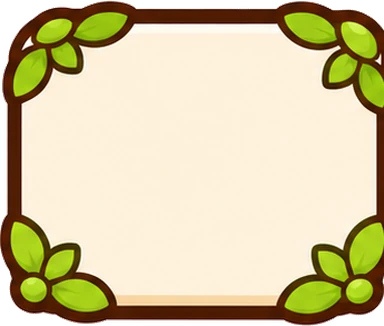
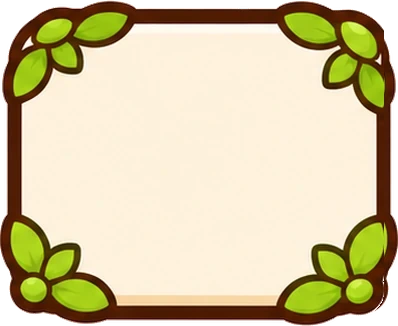
Frame art: rebuild the clipped left end of the capsule and the thin right border of the panel
Claude-Session: https://claude.ai/code/session_011jC4ZDqrEaYqEhudpbFCaM

diff --git a/docs/BIBLE.md b/docs/BIBLE.md
@@ -341,7 +341,7 @@
 | D-054 | 11-23 | 바구니보다 낮은 아이템 쓸 곳: 정리 부탁(새 부탁 15%, 원격 cleanup_chance, 한 번에 하나, 별 1개지만 하루 별 부탁 한도 · 단계 보상에 세지 않음, 그 아이템이 없어지면 거둠; 25%는 초반 구역이 15% 빨라져 15%로, 시뮬). 모두 합치기 · 모두 팔기는 넣지 않는다 (머지를 대신해 주고, 판은 늘 차므로 실수로 다 팔 위험 — 사용자 결정). 판이 꽉 막혔을 때(빈 칸 · 합칠 쌍 없음, 전달할 부탁 · 선물할 최고 단계도 없음, 패스 끝난 보관 칸끼리의 쌍은 합칠 수 없는 것으로)만 안내 카드를 누르면 팔아도 가장 덜 아까운 아이템 하나(바구니보다 낮은 것 중 가장 싼 것)를 골라 선택해 주고, 파는 건 직접 (되돌리기 가능). 게스트 로그아웃은 진행을 지우지 않고 로그인 화면으로만 (다시 게스트로 시작하면 이어서, 구글 로그인은 그 게스트에 연결). 대기 중엔 틱 · 알림 · 클라우드 자동 업로드 없음, 돌아오면 그동안의 방치 보상. 소셜 하루(선물 · 친구 추가)는 앱 · 서버 모두 한국 날짜. 단계 이동 표시는 'lvOff' + tips 목록의 '_lvOff' (1.0.6 이 다시 저장해도 남음). 1.0.7 출시 때 원격 min_version_code 를 1.0.7 로 (1.0.6 이 1.0.7 저장을 읽으면 찻잎 가치가 낮아 보임). 다이아 첫 결제 2배는 팩 전체에서 한 번만 (사용자 결정). 효과음 · 배경 음악 모두 오디오 포커스를 뺏지 않고 다른 앱 소리와 겹쳐 난다(mixWithOthers). 1.0.7 묶음: 버그 점검(경제 악용 7 · 저장/결제/화면 10 · 서버 3) 수정, 선물 하루는 서버 한국 날짜, 초대 7일은 서버 시각(invitedTs), 공개 이름은 게임 닉네임, 튜토리얼 단계 지표(tutorial_step) | ✅ |
 | D-055 | 11-23 | 콘텐츠 비축: 7~12구역(사과 과수원 · 버섯 숲 · 구름 정원 · 대나무 찻집 · 과자 마을 · 온천 마을) 그림과 새 친구 6명(허브 이름: 캐모마일 양 · 타임 아기 사슴 · 레몬밤 아기 부엉이 · 진저 레서판다 · 히비스커스 아기 돼지 · 루이보스 원숭이) 그림을 발주서(구역마다 배경 · 장식 기본/고급/특별/사계절 · 랜드마크 4단계, 친구마다 자세 4 + 사계절 의상, 구역 엠블럼)로 미리 받는다. 받은 그림은 게임에 바로 넣지 않고 보관했다가 정식 출시 뒤 구역 하나 + 친구 한 명씩 나눠 업데이트로 푼다 (사용자 결정). 그 밖의 추가 발주는 주간 이벤트 형태가 정해진 뒤 | ✅ |
 | D-056 | 11-23 | 시즌 스토어 자동화 (정식 출시 뒤 켬): 시즌 시작 사흘 전 그래픽 이미지 + 휴대전화 스크린샷([시즌 표지] + 기존 1~7)을 언어별로 교체 (Actions → Store season, `docs/store/season/AUTO`). 나중 확장 후보: 스크린샷 2~7의 친구 일러스트 · 게임 화면도 시즌 의상 · 장식으로 다시 찍기(웹 미리보기 자동 촬영), 스토어 아이콘(512)은 API로 시즌판 교체 가능하나 폰 홈 화면 아이콘은 앱 업데이트로만 바뀜 → 시즌 콘텐츠 업데이트와 같이 (분기마다 그래픽 · 스크린샷 · 스토어 아이콘 · 홈 아이콘 · 게임 시즌 장식 · 새 구역을 한 번에). 시즌 앱 아이콘 4종 발주: 지금 아이콘의 자세 · 구도 · 배경 · 튤립은 그대로, 민트 옷만 그 시즌 의상으로 (발주서 app_icon_<시즌>, 참고 이미지 = 지금 아이콘 + 민트 시즌 의상) · 시즌 아이콘 4종 받음 (docs/store/season/<시즌>/app_icon.png · icon_512.png, 들고 있는 것도 시즌별: 튤립 · 해바라기 · 코스모스 · 생강쿠키). 스토어 아이콘은 Store season 워크플로가 함께 교체, 홈 화면 아이콘은 `tool/launcher_icon.py <시즌>` 으로 바꿔 앱 업데이트에 싣는다 (1.0.9 = 겨울) | 🟡 나중 |
-| D-077 | 11-25 | ① 빨간 점을 붙인 카드가 줄어들던 문제: 점을 얹는 Stack 이 카드에 느슨한 폭을 넘겨 카드가 내용 폭으로 줄고 점만 오른쪽 끝에 따로 섰다 → StackFit.passthrough (디자인 카드 · 상점 광고 다이아 줄) ② 크게 보기 위 줄: '<' 버튼과 구역 이름 칸이 겹침 → 사이 간격 6, 이름 칸은 남은 폭 안에서 잘라 그림 ③ 휴대폰 글자 크기는 1.15배까지만 반영 (아주 크게 하면 화면이 겹쳐서) ④ 친구 잡담 말풍선은 창 테두리에서 16 안쪽까지만 (docs/share/fix_dot_header_ko.png) | ✅ |
+| D-077 | 11-25 | ① 빨간 점을 붙인 카드가 줄어들던 문제: 점을 얹는 Stack 이 카드에 느슨한 폭을 넘겨 카드가 내용 폭으로 줄고 점만 오른쪽 끝에 따로 섰다 → StackFit.passthrough (디자인 카드 · 상점 광고 다이아 줄) ② 크게 보기 위 줄: '<' 버튼과 구역 이름 칸이 겹침 → 사이 간격 6, 이름 칸은 남은 폭 안에서 잘라 그림 ③ 휴대폰 글자 크기는 1.15배까지만 반영 (아주 크게 하면 화면이 겹쳐서) ④ 친구 잡담 말풍선은 창 테두리에서 16 안쪽까지만 ⑤ 구역 이름 칸(capsule) 그림의 왼쪽 끝이 그림 경계에 잘려 있었음 → 왼쪽 여백을 늘리고 오른쪽 끝을 뒤집어 테두리 복원, 시트 틀(panel) 그림도 오른쪽 테두리가 잘려 7px(왼쪽 13px) → 같은 두께로 복원. 모든 frames 그림을 좌우 · 위아래 여백 대칭 검사(장식 · 리본처럼 일부러 비대칭인 것 빼고 문제 없음) (docs/share/fix_dot_header_ko.png) | ✅ |
 | D-076 | 11-25 | 합치기 효과음 6계층 (30단계에 맞게, 사용자 요청): 2~5 기본 merge · 6~10 merge_t2(종 1음) · 11~15 t3(2음) · 16~20 t4(3음) · 21~25 t5(4음) · 26~ t6(merge_big 을 낮추고 부드럽게). 최고 단계 합치기(코인)만 merge_big. 예전엔 6단계부터 merge_big 이라 너무 요란. 사용자 요청으로 차분하게: 종소리는 낮은 음역(C5~C6) · 작은 음량 · 느린 감쇠 · 고음 깎음, 최대 음량은 모두 기본 합치기 소리 수준(−16dB) | ✅ |
 | D-075 | 11-25 | 상점 · 부스트 자리 바꿈 (사용자 제안): 아래 줄 오른쪽 = 상점 (상점 빨간 점, 켜진 부스트가 있으면 남은 시간을 작은 글씨로). 부스트는 메뉴로 — 부스트 화면(가진 것 쓰기 · 광고 · 다이아로 바로 켜기), 가진 부스트가 있는데 아무것도 안 켜져 있으면 점. 다이아로 부스트 사기는 상점에 그대로. 메뉴 버튼 점에서 상점 점은 뺌. 안내: 부스트 → 메뉴, 시장 → 아래 상점 (docs/share/shop_bottom_ko.png) | ✅ |
 | D-074 | 11-25 | 정원 패스 혜택 화면: 메뉴(패스 이용 중일 때만 '정원 패스')와 상점 '혜택 보기'에서 연다. 남은 기간(구독은 '구독 중'), 오늘 광고 없이 받을 수 있는 것(에너지 · 부스트 · 코인 주머니 · 광고 다이아 · 별 부탁 더 받기 · 부탁 바꾸기 · 시장 광고 물건, 종류마다 n/최대 남음), 매일 혜택(다이아 10 받음/쪽지함 · 친구 별 부탁 +2 · 보관 칸 n/2 사용), 지금까지 받은 혜택(건너뛴 광고 수 · 받은 다이아, 저장에 누적) (docs/share/pass_perks_ko.png) | ✅ |
